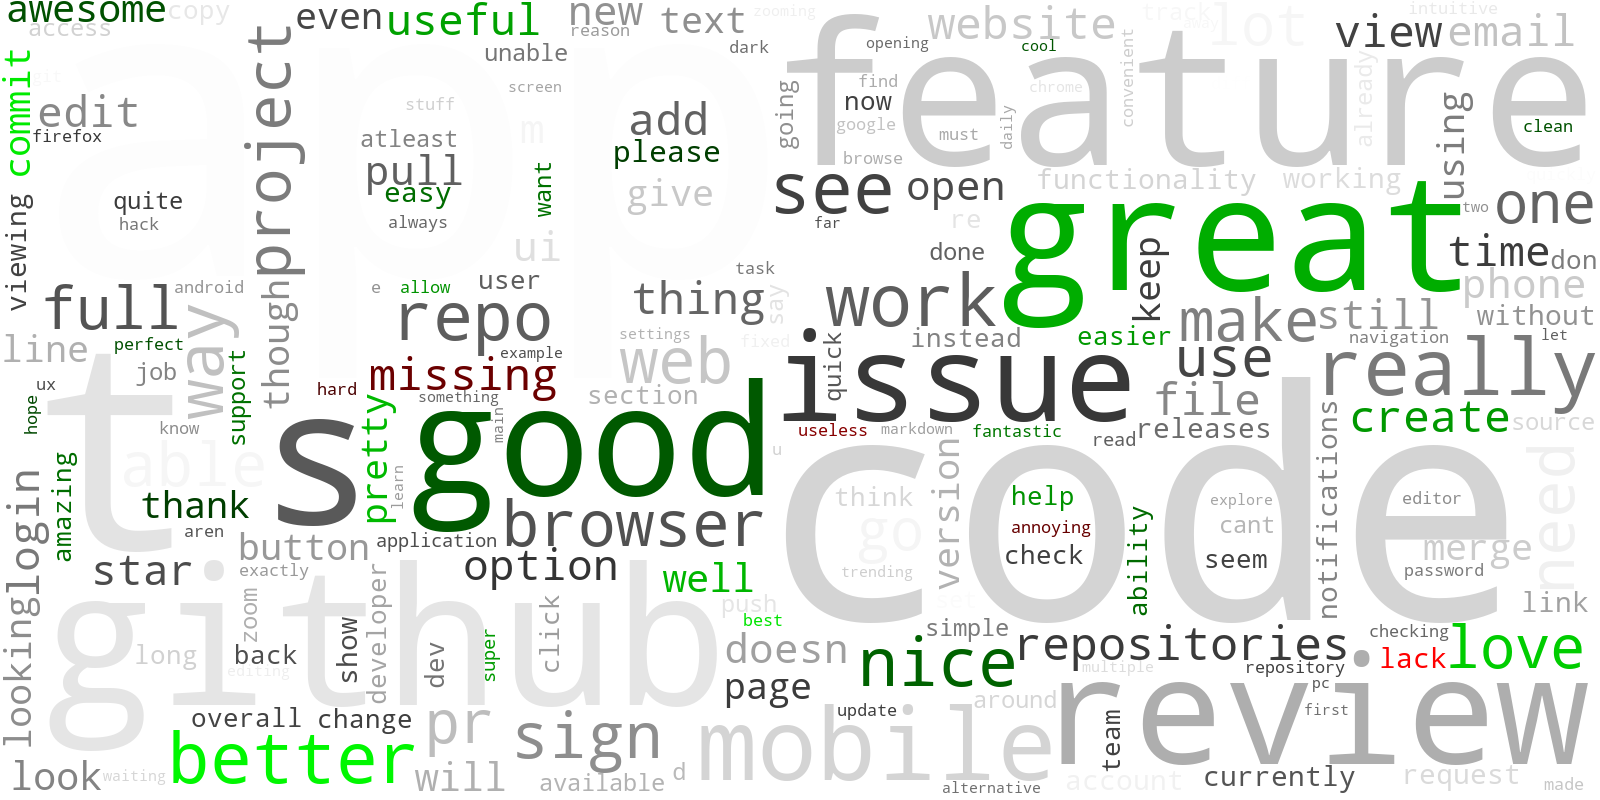
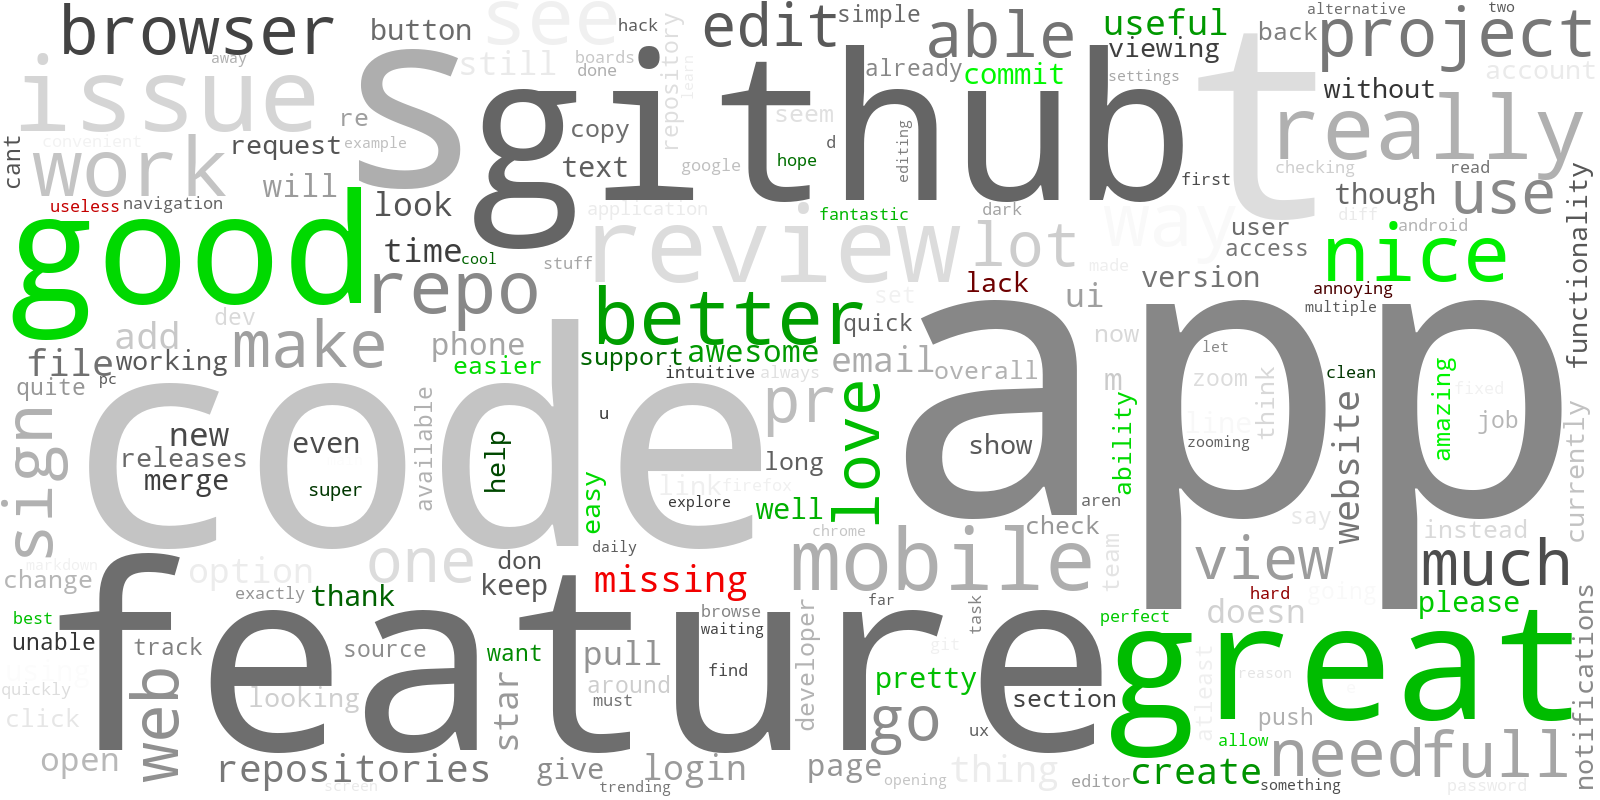
Top 5 comentários adicionados

diff --git a/templates/base.html b/templates/base.html
@@ -1,5 +1,5 @@
 <!DOCTYPE html>
-<html lang="en">
+<html lang="en"> 
     <head>
         <meta charset="UTF-8">
         <meta name="viewport" content="width=device-width, initial-scale=1.0">
@@ -19,7 +19,7 @@
             .central-area {
                 display: grid;
                 grid-template-columns: 1fr 2fr 1fr;
-                grid-template-rows: 90vh 5vh;
+                grid-template-rows: auto;
                 background-color: #e1e1e1;
             }
 
@@ -27,16 +27,13 @@
                 background-color: #f1f1f1;
                 grid-column: 2/3;
                 grid-row: 1/2;
-
                 display: grid;
                 grid-template-columns: 1fr 4fr 1fr;
-                grid-template-rows: 5vh 90vh;
-                
+                grid-template-rows: 93.3vh;
             }
 
             .main-content {
                 grid-column: 1/4;
-                grid-row: 2/3;
                 text-align: center;
             }
 
@@ -65,12 +62,8 @@
                 background-color: #f1f1f1;
                 grid-column: 2/3;
                 grid-row: 1/2;
-        
                 display: grid;
                 grid-template-columns: 1fr 1fr;
-                grid-template-rows: 1fr 3fr 2fr 1fr;
-                
-                
             }
         
             .main-apps > div {
@@ -138,20 +131,27 @@
                 width: 100%;
                 height: 100%;
             }
+
+            .content-table{
+                border-collapse: collapse;
+                width: 100%
+            }
+
+            .content-table td, .content-table  th {
+                border: 1px solid #ddd;
+                padding: 8px;
+            }
         </style>
     </head>
     <body>
         {% include "navbar.html" %}
-
         {% block navbar %}
         {% endblock navbar%}
         
         {% block content %}
-
-            {% include "footer.html" %}
-            {% block footer %}
-            {% endblock footer%}
-            
+        <!-- Page content here -->
         {% endblock content %}
+
+        
     </body>
 </html>

diff --git a/templates/app/application/index.html b/templates/app/application/index.html
@@ -21,13 +21,19 @@
         <div class="word-cloud"><img src="{% static app.cloud_path %}" alt="{{app.name}} word cloud"></div>
 
         <div class="app-details">
-            Tabela de detalhes
+            <table class="content-table">
+                <tr>
+                    <th>Likes</th>
+                    <th>Comentário</th>
+                </tr>
+                {% for comment in comments %}
+                <tr>
+                    <th>{{comment.likes}}</th>
+                    <th>{{comment.comments}}</th>
+                </tr>
+                {% endfor %}
+            </table>
         </div>
     </main>
-
-    {% include "footer.html" %}
-
-    {% block footer %}
-    {% endblock footer%}
 </div>
 {% endblock content %}

diff --git a/templates/index.html b/templates/index.html
@@ -5,7 +5,6 @@
 {% block content %}
 <div class="central-area">
     <main class="main">
-        
         <div class="main-content">
             <p class="page-title">APLICATIVOS PARA ANÁLISE:</p >
             <ul class="app-list">
@@ -14,12 +13,6 @@
                 {% endfor %}
             </ul>
         </div>
-
-    </main>
-
-    {% include "footer.html" %}
-
-    {% block footer %}
-    {% endblock footer%}
-</div>
+    </div>
+</main>
 {% endblock content %}

diff --git a/analysis.py b/analysis.py
@@ -101,14 +101,12 @@ def image_cloud_word(app, comments):
     cloud_path = 'images/cloud_' + app_id + '.png'
     app['cloud_path'] = cloud_path
 
-    colorful_words = grouping_word_same_feeling(comments)
-    summary = list(get_comments(comments))
-    summary = clear_comments(summary)
-    all_summary = " ".join(s for s in summary)
+    colorful_words, word_list = grouping_word_same_feeling(comments)
+
 
     wordcloud = WordCloud(collocations=False, contour_color="black",
                           background_color="#e1e1e100", mode='RGBA',
-                          width=1600, height=800).generate(all_summary)
+                          width=1600, height=800).generate(word_list)
 
     # Se aparecer alguma palavra amarelka é porque deu pau no agrupamento de palavras de mesmo sentimento
     default_color = 'yellow'
@@ -128,6 +126,7 @@ def grouping_word_same_feeling(comments):
     sid = SentimentIntensityAnalyzer()
     comments = list(get_comments(comments))
     comments = clear_comments(comments)
+    word_list = ""
     word_tokens = []
     for i in comments:
         word_tokens.extend(word_tokenize(i))
@@ -135,12 +134,14 @@ def grouping_word_same_feeling(comments):
     for i in word_tokens:
         aux = sid.polarity_scores(i)
         if 0.05 >= aux['compound'] >= -0.05:
-            color_words['grey'].append(i)
+            pass
         elif aux['compound'] > 0.05:
             color_words['green'].append(i)
+            word_list += " "+i
         else:
             color_words['red'].append(i)
-    return color_words
+            word_list += " "+i
+    return color_words, word_list
 
 
 def mean(lista):

diff --git a/app/views.py b/app/views.py
@@ -1,5 +1,5 @@
 from django.shortcuts import render
-from database import read_all_apps, read_app
+from database import read_all_apps, read_app, read_top
 
 def home_view(request):
     context = { 
@@ -9,7 +9,11 @@ def home_view(request):
 
 
 def application_detail_view(request, app_id):
+    app = read_app(app_id)
+    comments = read_top(app_id)
     context = {
-        'app': read_app(app_id)
+        'app': app,
+        'comments': comments
     }
     return render(request, "app/application/index.html", context)
+

diff --git a/database.py b/database.py
@@ -38,3 +38,9 @@ def read_app(app_id):
 # busca os comentarios de uma aplicacao expecifica
 def read_comments(app_id):
     return COMMENTS.find({'app': app_id})
+
+# busca os 5 commentarios com maior numero de likes
+def read_top(app_id):
+    comments = list(COMMENTS.find({'app': app_id}).sort("likes",-1))
+    comments = comments[:5]
+    return comments

diff --git a/Google_Play_Analysis/settings.py b/Google_Play_Analysis/settings.py
@@ -124,5 +124,5 @@ USE_TZ = True
 STATIC_URL = '/static/'
 
 STATICFILES_DIR = [
-    os.path.join(BASE_DIR, 'static')
+    os.path.join(BASE_DIR, '/app/static')
 ]
